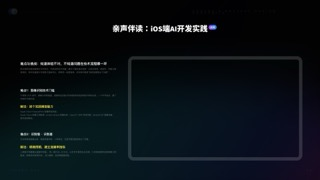
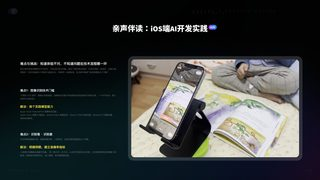
视频页翻页统一为上下滑动
- 视频页不再用 320ms 交叉淡入，与其他页一致使用 640ms
  translateY 上下翻页
- 为每个视频页生成「背景 + poster」预合成 preview 图（含响应式变体），
  转场期间隐藏 overlay canvas、用 preview 参与滑动/克隆层；结束后
  恢复 canvas，视频仍点击播放
- 覆盖其他项目第 3 页、AI封面第 6/7 页、个人AI转型实践第 6 页；
  缩略图同步使用 preview
- 删除旧 crossfadeArtwork 路径；AGENTS.md §3.8 / §6.5 同步

验证：1440×900 进入视频页时 art 保持 opacity 1、canvas 隐藏、
ghost 执行同款位移动画；落位后 canvas 显示 1/3 个 poster；
离开视频页 canvas 隐藏并正常切页；无 404、无 JS 报错。

diff --git a/script.js b/script.js
@@ -27,7 +27,7 @@ const kingsoftSlides = kingsoftPages.map((number, index) => ({
    placement editor (.qa/media/compose.html).
 --------------------------------------------------------------------------- */
 const isComposite = (slide) => Boolean(slide && slide.type === "composite");
-const slideSource = (slide) => (isComposite(slide) ? slide.background : slide?.src);
+const slideSource = (slide) => (isComposite(slide) ? (slide.src || slide.background) : slide?.src);
 // High-res originals stay untouched; the viewer loads the smallest WebP that
 // still covers the frame at the current device pixel ratio. The original is
 // the fallback for large/retina/fullscreen displays.
@@ -99,7 +99,7 @@ function refreshArtworkResolution() {
   const project = currentProject();
   const slide = project?.slides?.[state.slideIndex];
   const visual = activeVisualSlide(slide);
-  if (!slide || !visual || isComposite(visual) || !visual.variants?.length) return;
+  if (!slide || !visual || !visual.variants?.length) return;
   const wanted = pickSlideSource(visual);
   const current = elements.artwork.getAttribute("src") || "";
   if (!wanted || wanted === current) return;
@@ -120,15 +120,15 @@ function refreshArtworkResolution() {
 const slideThumb = (slide) => slide?.thumb || slideSource(slide);
 const slideVideoCount = (slide) =>
   isComposite(slide) ? (slide.overlays || []).filter((overlay) => overlay.kind === "video").length : 0;
-const slideHasVideo = (slide) => slideVideoCount(slide) > 0;
 
 /* 真实 PPT 页：亲声伴读 · iOS 端 AI 开发实践（第 6 页）。
    背景图已按空框位置量好（x/y/w/h 为相对整页的百分比），
    视频源先用 demo 片段占位——真实视频转码后只替换 src / poster 两行即可。 */
 const readingSlide = {
   type: "composite",
+  src: "assets/demo/ai-reading-01-preview.jpg",
+  variants: slideVariants("assets/demo/ai-reading-01-preview.jpg"),
   background: "assets/demo/ai-reading-01.png",
-  variants: slideVariants("assets/demo/ai-reading-01.png"),
   thumb: "assets/slide-thumbs/ai-reading-01.jpg",
   alt: "亲声伴读：iOS 端 AI 开发实践（PPT 背景图 + 演示视频）",
   overlays: [
@@ -201,8 +201,9 @@ const bytedanceOtherSlides = bytedanceOtherOrder.map((fileNumber, index) => {
   if (fileNumber === 1) {
     return {
       type: "composite",
+      src: `${bytedanceWorks}/other/01-preview.jpg`,
       background: otherVideoBackground,
-      variants: slideVariants(otherVideoBackground),
+      variants: slideVariants(`${bytedanceWorks}/other/01-preview.jpg`),
       thumb: "assets/slide-thumbs/byte-other-01.jpg",
       alt: "抖音其他项目案例第 3 页（含视频演示）",
       overlays: [
@@ -235,8 +236,9 @@ const bytedanceOtherSlides = bytedanceOtherOrder.map((fileNumber, index) => {
 const aiCover39Background = `${bytedanceWorks}/ai-cover/06.jpg`;
 bytedanceAiCoverSlides[5] = {
   type: "composite",
+  src: `${bytedanceWorks}/ai-cover/06-preview.jpg`,
   background: aiCover39Background,
-  variants: slideVariants(aiCover39Background),
+  variants: slideVariants(`${bytedanceWorks}/ai-cover/06-preview.jpg`),
   thumb: "assets/slide-thumbs/byte-ai-cover-06.jpg",
   alt: "抖音 AI 封面案例第 6 页（含视频演示）",
   overlays: [
@@ -266,8 +268,9 @@ const aiCoverVideoBoxes = [
 ];
 bytedanceAiCoverSlides[6] = {
   type: "composite",
+  src: `${bytedanceWorks}/ai-cover/07-preview.jpg`,
   background: aiCoverVideoBackground,
-  variants: slideVariants(aiCoverVideoBackground),
+  variants: slideVariants(`${bytedanceWorks}/ai-cover/07-preview.jpg`),
   thumb: "assets/slide-thumbs/byte-ai-cover-07.jpg",
   alt: "抖音 AI 封面案例第 7 页（含视频演示）",
   overlays: aiCoverVideoBoxes.map((item, index) => ({
@@ -1045,74 +1048,10 @@ function resetArtworkLayers() {
   elements.artwork.style.opacity = "";
 }
 
-/* Composite pages (background + media boxes) can't ride the translateY turn:
-   sliding a decoding <video> layer stutters, so they cross-fade instead. */
-function crossfadeArtwork(slide) {
-  const ghost = elements.artworkGhost;
-  const previousSrc = elements.artwork.currentSrc || elements.artwork.src;
-  resetArtworkLayers();
-  renderOverlays(slide);
-  if (!ghost || !previousSrc) {
-    placeArtwork(slide);
-    return;
-  }
-  const token = slideAnimToken;
-  ghost.src = previousSrc;
-  ghost.alt = "";
-  ghost.style.visibility = "visible";
-  ghost.style.transition = "none";
-  ghost.style.opacity = "1";
-  elements.artwork.style.transition = "none";
-  elements.artwork.style.opacity = "0";
-  if (elements.slideCanvas) elements.slideCanvas.style.opacity = "0";
-  elements.loader.classList.add("is-active");
-  elements.artwork.onload = null;
-  elements.artwork.onerror = null;
-  elements.artwork.src = pickSlideSource(slide);
-  elements.artwork.alt = slide.alt || "";
-  const settle = () => {
-    if (token !== slideAnimToken) return;
-    elements.artwork.onload = null;
-    elements.artwork.onerror = null;
-    elements.artwork.style.transition = "opacity 320ms ease";
-    ghost.style.transition = "opacity 320ms ease";
-    if (elements.slideCanvas) elements.slideCanvas.style.transition = "opacity 320ms ease";
-    void elements.artwork.offsetWidth;
-    elements.artwork.style.opacity = "1";
-    ghost.style.opacity = "0";
-    if (elements.slideCanvas) elements.slideCanvas.style.opacity = "1";
-    elements.loader.classList.remove("is-active");
-    window.setTimeout(() => {
-      if (token !== slideAnimToken) return;
-      ghost.style.visibility = "hidden";
-      ghost.style.transition = "none";
-      ghost.style.opacity = "";
-      elements.artwork.style.transition = "";
-      elements.artwork.style.opacity = "";
-      if (elements.slideCanvas) {
-        elements.slideCanvas.style.transition = "";
-        elements.slideCanvas.style.opacity = "";
-      }
-      markArtworkReady();
-    }, 340);
-  };
-  const settleReady = () => whenImageDecoded(elements.artwork, settle);
-  if (elements.artwork.complete && elements.artwork.naturalWidth) settleReady();
-  else {
-    elements.artwork.onload = settleReady;
-    elements.artwork.onerror = settle;
-  }
-}
-
 /* Page turn: the outgoing page slides out while the next one slides in from
    the opposite edge (the damped vertical motion used by motion-led sites). */
 function moveArtwork(slide, direction) {
   const ghost = elements.artworkGhost;
-  const leavingComposite = elements.slideCanvas && !elements.slideCanvas.hidden;
-  if (leavingComposite || slideHasVideo(slide)) {
-    crossfadeArtwork(slide);
-    return;
-  }
   if (!ghost || slideMotionQuery.matches) {
     resetArtworkLayers();
     placeArtwork(slide);
@@ -1120,6 +1059,7 @@ function moveArtwork(slide, direction) {
   }
   const previousSrc = elements.artwork.currentSrc || elements.artwork.src;
   resetArtworkLayers();
+  resetMediaBoxes();
   if (!previousSrc) {
     placeArtwork(slide);
     return;
@@ -1163,6 +1103,7 @@ function moveArtwork(slide, direction) {
         ghost.style.transition = "none";
         elements.artwork.style.transition = "";
         elements.artwork.style.transform = "";
+        if (isComposite(slide)) renderOverlays(slide);
         markArtworkReady();
       }, duration + 40);
     });

diff --git a/AGENTS.md b/AGENTS.md
@@ -22,7 +22,7 @@
 | `assets/marks/` | 三家公司图标 `bytedance / jd / kingsoft.webp`（180–183px，RGBA 透明圆角；`douyin.webp` 保留但已不再引用） |
 | `assets/thumbs/` | 卡片封面（允许压缩）：字节跳动四个项目 + 金山词霸由原始设计稿压成 `douyin-platform / douyin-ai-cover / douyin-other / douyin-ai-practice / mobile.jpg`（1600×900 JPEG q90，~170–230 KB）；JD 沿用 `jd.jpg` 原封面 |
 | `assets/slide-thumbs/` | 查看器缩略图（16:9，320×180；`byte-*` 为字节跳动四个项目、`jd/kingsoft` 为历史项目） |
-| `assets/works/bytedance/` | 2026 作品材料导入的字节跳动四个项目：`platform`（32 页；原 13–16 页合并为 1 页滚动叠加）、`ai-cover`（9 页）、`other`（5 页）、`ai-practice`（5 页图片 + 1 页复合视频）；原图均为原始 3840×2160 PNG，不做缩放/有损压缩；每页旁边有 `.w960/.w1280/.w1920/.w2560.webp` 响应式变体（q95）。其中 `other/01.jpg`、`ai-cover/06.jpg`、`ai-cover/07.jpg` 已换成 2026 图库的 5760×3240 视频页背景 |
+| `assets/works/bytedance/` | 2026 作品材料导入的字节跳动四个项目：`platform`（32 页；原 13–16 页合并为 1 页滚动叠加）、`ai-cover`（9 页）、`other`（5 页）、`ai-practice`（5 页图片 + 1 页复合视频）；原图均为原始 3840×2160 PNG，不做缩放/有损压缩；每页旁边有 `.w960/.w1280/.w1920/.w2560.webp` 响应式变体（q95）。其中 `other/01.jpg`、`ai-cover/06.jpg`、`ai-cover/07.jpg` 已换成 2026 图库的 5760×3240 视频页背景；视频页另生成 `*-preview.jpg`（背景 + poster 合成，用于统一翻页） |
 | `assets/video/` | 复合页演示视频（H.264，≤12 MB/条）与 `-poster.jpg` 静帧：`other-37-demo`（37.mov，18s）、`ai-cover-39-demo`（对应20240539.mov，14s）、`ai-cover-step-1/2/3`（20240540-1/2/3.mov），以及旧的 `demo-1080p.mp4`；**当前源视频均无音轨** |
 | `assets/demo/` | 复合页 demo 的 PPT 背景图（占位；正式页面由 `.qa/media/compose.html` 产出） |
 | `assets/layers/` | 复合页的 PNG 图层素材（透明 PNG，按清单里的百分比定位） |
@@ -133,17 +133,18 @@
 ### 3.8 复合页（PPT 背景图 + 视频框）
 
 - **形态**：一页 = 一张 PPT 导出的 16:9 背景图 + 叠在背景上的 1..n 个视频框；视频与这一页绑定，翻页时整页一起走。
-- **数据**：`{ type: "composite", background, thumb, alt, overlays: [{ kind: "video", id, label, src, poster, box: { x, y, w, h }, fit, radius, muted, loop, controls, play }] }`；无 `type` 视为普通图片页，老数据零迁移。
+- **数据**：`{ type: "composite", src, variants, background, thumb, alt, overlays: [{ kind: "video", id, label, src, poster, box: { x, y, w, h }, fit, radius, muted, loop, controls, play }] }`；`src` 是背景 + poster 预合成的预览图（用于统一翻页/克隆层），`background` 保留原始背景，旧图片页零迁移。
 - **定位**：`box` 用百分比（相对整页），`radius`/`shadow` 用「页宽的百分比」——`sizeArtworkFrame()` 把页宽写入 `--frame-unit`，CSS 用 `calc(var(--frame-unit) * var(--media-radius))`。实测 6 个视口 x/y/w/h 与清单完全一致、圆角随页宽 2.7→4.1px 等比缩放。
 - **播放**：默认**点击播放**——未播放只有 poster + 居中 ▶，`<video>` 连 `src` 都没有（零流量）；点击才注入 `src`，显示原生控件、默认不静音（数据 `muted:false`，`volume:1`）；**同一页只播一个**（点新的先暂停旧的且不回弹 ▶，用原生控件继续）；播完 ▶ 重新出现用于重播。源视频目前无音轨时仍无声。
-- **翻页与进出场**：复合页不参与 640ms `translateY` 翻页（视频位移会掉帧），改用 320ms 交叉淡入；卡片→大图 / 大图→卡片的 FLIP 克隆层只用「背景 + poster」，**不移动 `<video>`**。
+- **翻页与进出场**：视频页与其他页统一使用 640ms `translateY` 上下翻页。转场期间隐藏 overlay canvas、使用预合成 `src` 预览图（背景 + poster）参与滑动/克隆层；转场结束后再显示 canvas。这样既保持全局滚动一致，也不会移动 `<video>`。
 - **清理**：离开页面 / 退出预览时销毁 `<video>`（`pause()` + 移除 `src` + `load()`）；实测翻走后 `<video>` 元素 0 个、`[data-slide-canvas]` 隐藏。
 - **缩略图**：背景图 + 蓝色 `▶` 角标（多个视频显示数量），`aria-label` 追加「（含视频）」。
 - **视频铺满**：视频/ poster 的 `object-fit` 必须是 `cover`，让画面填满手机框；`.artwork-frame img` 的全局 `contain` 会覆盖普通 `.media-poster` 规则，必须用 `.artwork-frame .media-poster/.media-video` 这类更高特异性选择器修正，否则框内会出现黑边缝隙。
 - **当前视频页**：
-  - 抖音其他项目第 3 页（`other/01.jpg`）：1 个视频框 `x 8.57 / y 25.29 / w 20.71 / h 67.09`，接 `other-37-demo.mp4`（来源 `37.mov`）；
-  - 抖音AI封面第 6 页（`ai-cover/06.jpg`）：1 个视频框 `x 8.63 / y 30.69 / w 18.87 / h 70`，接 `ai-cover-39-demo.mp4`（来源 `对应20240539.mov`）；
-  - 抖音AI封面第 7 页（`ai-cover/07.jpg`）：3 个视频框 `x 29.7 / 52.14 / 74.64`、`y 33.12`、`w 17.8 / 17.8 / 17.74`、`h 70`，分别接 `ai-cover-step-1/2/3.mp4`（来源 `20240540-1/2/3.mov`）；
+  - 抖音其他项目第 3 页（`other/01-preview.jpg`）：1 个视频框 `x 8.57 / y 25.29 / w 20.71 / h 67.09`，接 `other-37-demo.mp4`（来源 `37.mov`）；
+  - 抖音AI封面第 6 页（`ai-cover/06-preview.jpg`）：1 个视频框 `x 8.63 / y 30.69 / w 18.87 / h 70`，接 `ai-cover-39-demo.mp4`（来源 `对应20240539.mov`）；
+  - 抖音AI封面第 7 页（`ai-cover/07-preview.jpg`）：3 个视频框 `x 29.7 / 52.14 / 74.64`、`y 33.12`、`w 17.8 / 17.8 / 17.74`、`h 70`，分别接 `ai-cover-step-1/2/3.mp4`（来源 `20240540-1/2/3.mov`）；
+  - 个人AI转型实践第 6 页（`assets/demo/ai-reading-01-preview.jpg`）：1 个视频框 `x 41.02 / y 33.01 / w 52.45 / h 54.35`，接 `demo-1080p.mp4`（demo 占位）；
   - 视频统一 592×1280 H.264 + 592×1280 JPEG poster，点击播放、同页只播一个；**默认不静音**，原生控件可调音量。
 - **产出方式**：本地放置编辑器 `.qa/media/compose.html`（工作区辅助文件，不提交）拖入背景图与视频 → 拖动/缩放框 → 自动截 poster → 导出 slide 对象粘进 `script.js`；视频先转 720p 竖屏 H.264（≤12 MB/条）。
 - **改写视频源**：`overlays[].src` 支持相对路径或绝对 URL，换托管只改前缀，其他代码不动。
@@ -241,7 +242,7 @@
 ### 6.5 复合媒体页基线
 
 - 查看器支持普通图片页与 `type: "composite"` 复合页共存；复合页由 16:9 背景、百分比定位的视频框和 PNG 图层组成，旧图片数据无需迁移。
-- 视频默认点击后才注入 `src`，同页只播放一个；离页时暂停、移除源并销毁元素。复合页翻页使用交叉淡入，FLIP 只移动背景与 poster，不移动视频元素。
+- 视频默认点击后才注入 `src`，同页只播放一个；离页时暂停、移除源并销毁元素。视频页与其他页一致使用 640ms 上下翻页，转场使用预合成 preview 图、隐藏 canvas，结束后恢复 overlay。
 - PNG 图层与视频共用百分比坐标体系，支持层级、透明度、适配方式和等比圆角；分层 PPT 应先用现有编辑器或坐标转换工具校验后再入库。
 - 「个人AI转型实践」第 6 页保留当前复合页实现；正式视频到位后只替换数据中的 `src` 与 `poster`。
 - 抖音其他项目第 3 页、抖音AI封面第 6/7 页为视频复合页；视频/ poster 与框坐标以 §3.8 为准；播放器不强制静音，但源视频目前无音轨。
